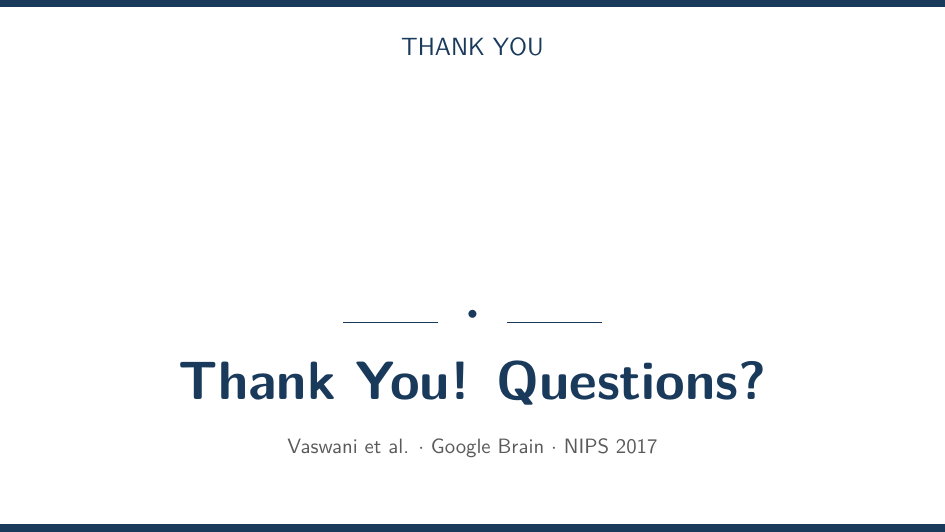
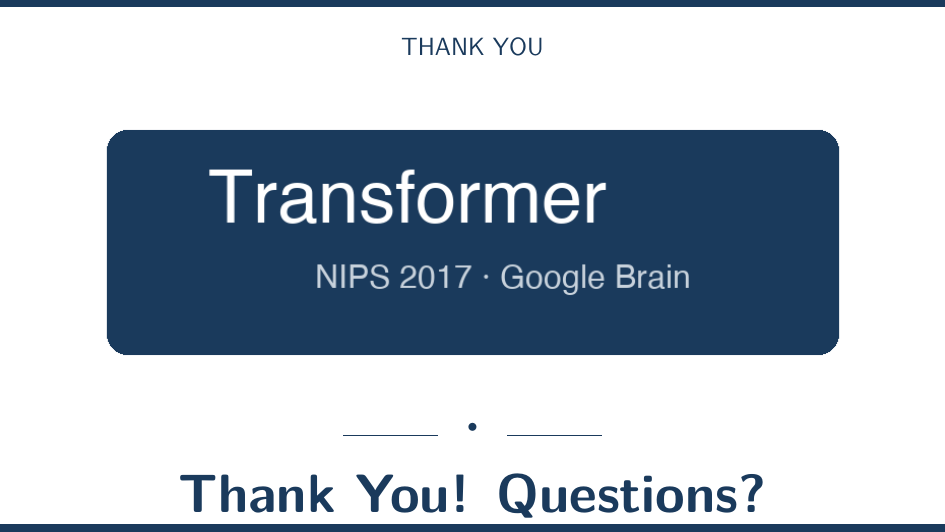
docs: add tikz architecture & attention visualization screenshots
- P8: Encoder-Decoder architecture with brace annotations (×N)
- P11: Multi-Head Attention parallel projection mechanism
- P26: Thanks page with proper banner logo (not oversized)
- README now shows 8 screenshots (was 6): added tikz diagrams row

diff --git a/README.md b/README.md
@@ -40,6 +40,14 @@
     <td><img src="docs/toc.png" width="380"></td>
   </tr>
   <tr>
+    <td align="center"><strong>TikZ 架构图（左文右图）</strong></td>
+    <td align="center"><strong>TikZ 多头注意力可视化</strong></td>
+  </tr>
+  <tr>
+    <td><img src="docs/tikz-architecture.png" width="380"></td>
+    <td><img src="docs/tikz-attention.png" width="380"></td>
+  </tr>
+  <tr>
     <td align="center"><strong>段落+公式组合</strong></td>
     <td align="center"><strong>段落+表格+结论</strong></td>
   </tr>
@@ -49,7 +57,7 @@
   </tr>
   <tr>
     <td align="center"><strong>实验结果表格</strong></td>
-    <td align="center"><strong>致谢页</strong></td>
+    <td align="center"><strong>致谢页（带 Logo）</strong></td>
   </tr>
   <tr>
     <td><img src="docs/full-image.png" width="380"></td>